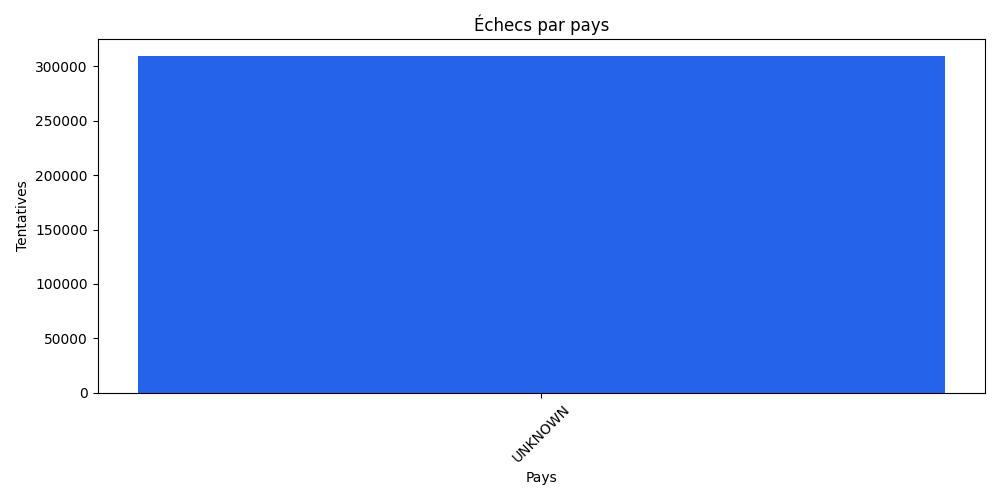
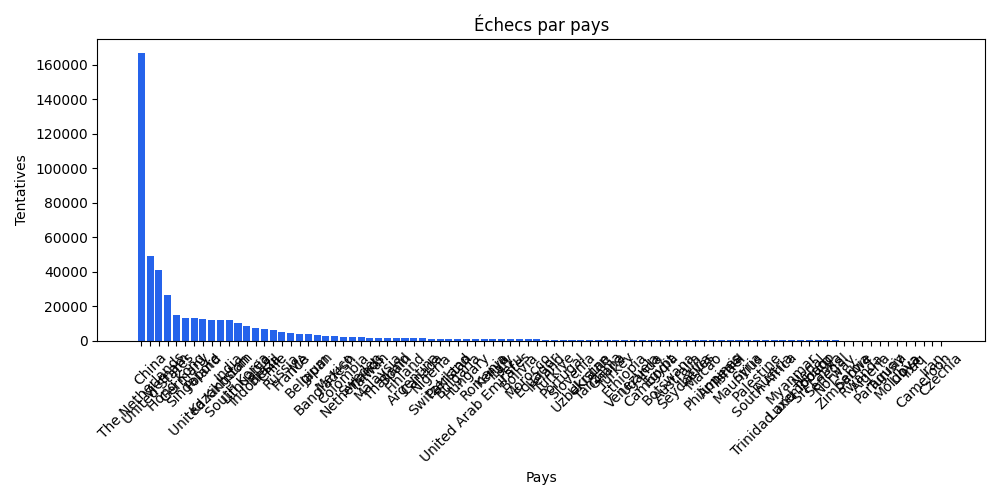
fixing bug

diff --git a/serving/dashboard.py b/serving/dashboard.py
@@ -2,7 +2,6 @@ import logging
 import os
 import subprocess
 from typing import List, Tuple
-from html import escape
 
 import matplotlib.pyplot as plt
 from matplotlib.patches import FancyBboxPatch
@@ -25,25 +24,6 @@ def _query(sql: str) -> List[Tuple[str, int]]:
     ]
 
 
-def create_dashboard(output_dir: str = "dashboard") -> None:
-    os.makedirs(output_dir, exist_ok=True)
-    charts = [
-        ("failed_attempts_by_country", "Tentatives échouées par pays", "Pays", "Tentatives"),
-        ("successful_attempts_by_user", "Tentatives réussies par utilisateur", "Utilisateur", "Tentatives"),
-        ("failed_invalid_users_by_user", "Tentatives avec utilisateur invalide", "Utilisateur", "Tentatives"),
-    ]
-    chart_data = {}
-    for view, title, x_label, y_label in charts:
-        try:
-            data = _query(f"SELECT * FROM {view};")
-            chart_data[view] = data
-            _create_chart(output_dir, view, title, x_label, y_label, data)
-        except (OSError, subprocess.CalledProcessError, ValueError):
-            LOGGER.exception("Cannot create chart for %s", view)
-            raise
-    _write_html(output_dir, chart_data)
-
-
 def _create_chart(
     output_dir: str,
     view: str,
@@ -61,16 +41,6 @@ def _create_chart(
     figure.tight_layout()
     figure.savefig(os.path.join(output_dir, f"{view}.png"))
     plt.close(figure)
-
-
-def _table_rows(data: List[Tuple[str, int]]) -> str:
-    if not data:
-        return '<tr><td colspan="2" class="empty">Aucune donnée</td></tr>'
-    return "".join(
-        f"<tr><td>{escape(label)}</td><td>{value:,}</td></tr>"
-        for label, value in data
-    )
-
 
 
 def launch_dashboard_app() -> None:
@@ -121,18 +91,18 @@ def _show_matplotlib_dashboard(
     figure.suptitle(
         "Log Analyser",
         x=0.06,
-        y=0.96,
+        y=0.975,
         ha="left",
         color="#172033",
-        fontsize=24,
+        fontsize=22,
         fontweight="bold",
     )
     figure.text(
         0.06,
-        0.92,
+        0.925,
         "Surveillance des authentifications SSH",
         color="#667085",
-        fontsize=12,
+        fontsize=10,
         ha="left",
     )
 
@@ -142,7 +112,7 @@ def _show_matplotlib_dashboard(
         zip(values, card_titles, card_colors)
     ):
         left = 0.06 + index * 0.30
-        card = figure.add_axes((left, 0.76, 0.27, 0.10))
+        card = figure.add_axes((left, 0.755, 0.27, 0.105))
         card.set_axis_off()
         card.add_patch(
             FancyBboxPatch(
@@ -158,36 +128,36 @@ def _show_matplotlib_dashboard(
         )
         card.text(
             0.07,
-            0.68,
+            0.72,
             title.upper(),
             color="#667085",
-            fontsize=9,
+            fontsize=8,
             fontweight="bold",
             va="center",
         )
         card.text(
             0.07,
-            0.30,
+            0.28,
             f"{sum(count for _, count in rows):,}",
             color=color,
-            fontsize=22,
+            fontsize=21,
             fontweight="bold",
             va="center",
         )
 
     axes = (
-        figure.add_axes((0.06, 0.13, 0.27, 0.54)),
-        figure.add_axes((0.365, 0.13, 0.27, 0.54)),
-        figure.add_axes((0.67, 0.13, 0.27, 0.54)),
+        figure.add_axes((0.06, 0.17, 0.27, 0.51)),
+        figure.add_axes((0.365, 0.17, 0.27, 0.51)),
+        figure.add_axes((0.67, 0.17, 0.27, 0.51)),
     )
     for axis, (title, rows), color in zip(axes, values, card_colors):
         labels = [label for label, _ in rows[:15]]
         counts = [count for _, count in rows[:15]]
         axis.set_facecolor("white")
         axis.bar(labels, counts, color=color, width=0.72)
-        axis.set_title(title, loc="left", color="#172033", fontsize=13, pad=14)
+        axis.set_title(title, loc="left", color="#172033", fontsize=13, pad=12)
         axis.set_ylabel("Tentatives", color="#667085", fontsize=9)
-        axis.tick_params(axis="x", rotation=45, labelsize=8, colors="#475467")
+        axis.tick_params(axis="x", rotation=35, labelsize=7, colors="#475467")
         axis.tick_params(axis="y", labelsize=8, colors="#475467")
         axis.grid(axis="y", alpha=0.25, color="#98a2b3")
         axis.set_axisbelow(True)
@@ -196,9 +166,9 @@ def _show_matplotlib_dashboard(
         axis.margins(x=0.04)
     figure.text(
         0.06,
-        0.06,
+        0.075,
         "Source : journaux SSH analysés depuis PostgreSQL",
         color="#98a2b3",
-        fontsize=9,
+        fontsize=8,
     )
     plt.show()

diff --git a/process/geolocation.py b/process/geolocation.py
@@ -3,31 +3,14 @@ import io
 import logging
 import os
 import subprocess
-from concurrent.futures import ThreadPoolExecutor, as_completed
-from typing import Dict, Iterable, Optional
+from typing import Dict, Iterable, List
 
 import requests
 
 LOGGER = logging.getLogger(__name__)
-API_URL = "https://ipinfo.io/{ip}/json"
-REQUEST_TIMEOUT = 4
-MAX_WORKERS = 20
-
-
-def get_location(ip: str) -> Optional[str]:
-    """Return the country code reported by ipinfo.io for an IP address."""
-    try:
-        response = requests.get(API_URL.format(ip=ip), timeout=REQUEST_TIMEOUT)
-        response.raise_for_status()
-        country = response.json().get("country")
-    except (OSError, requests.RequestException, ValueError) as exc:
-        LOGGER.warning("Geolocation request failed for %s: %s", ip, exc)
-        return None
-
-    if not isinstance(country, str) or not country:
-        LOGGER.warning("Geolocation API returned no country for %s", ip)
-        return None
-    return country
+API_URL = "http://ip-api.com/batch"
+REQUEST_TIMEOUT = 15
+BATCH_SIZE = 100
 
 
 def _query_ips(database: str) -> Iterable[str]:
@@ -40,10 +23,10 @@ def _query_ips(database: str) -> Iterable[str]:
             "--no-align",
             "--command",
             """
-            SELECT DISTINCT source_ip::text
+            SELECT DISTINCT host(source_ip)
             FROM auth_events
             WHERE source_ip IS NOT NULL
-              AND source_ip::text NOT IN (SELECT source_ip::text FROM ip_country);
+              AND source_ip NOT IN (SELECT source_ip FROM ip_country);
             """,
         ],
         capture_output=True,
@@ -51,6 +34,35 @@ def _query_ips(database: str) -> Iterable[str]:
         check=True,
     )
     return (line.strip() for line in result.stdout.splitlines() if line.strip())
+
+
+def _get_locations(ips: List[str]) -> Dict[str, str]:
+    try:
+        response = requests.post(
+            API_URL,
+            json=[{"query": ip} for ip in ips],
+            params={"fields": "status,message,query,country"},
+            timeout=REQUEST_TIMEOUT,
+        )
+        response.raise_for_status()
+        results = response.json()
+    except (OSError, requests.RequestException, ValueError) as exc:
+        LOGGER.warning("Geolocation batch request failed: %s", exc)
+        return {}
+
+    locations = {}
+    if not isinstance(results, list):
+        LOGGER.warning("Geolocation API returned an invalid batch response")
+        return locations
+    for result in results:
+        if (
+            isinstance(result, dict)
+            and result.get("status") == "success"
+            and isinstance(result.get("query"), str)
+            and isinstance(result.get("country"), str)
+        ):
+            locations[result["query"]] = result["country"]
+    return locations
 
 
 def _save_locations(database: str, locations: Dict[str, str]) -> None:
@@ -74,20 +86,19 @@ def _save_locations(database: str, locations: Dict[str, str]) -> None:
 
 
 def enrich_database() -> None:
-    """Geolocate new source IPs and update the event countries."""
+    """Geolocate new source IPs in batches and update event countries."""
     database = os.environ.get("POSTGRES_DB", "log_analyser")
     locations = {}
     ips = list(_query_ips(database))
     LOGGER.info("Geolocating %d new source IPs", len(ips))
-    with ThreadPoolExecutor(max_workers=MAX_WORKERS) as executor:
-        requests_by_ip = {executor.submit(get_location, ip): ip for ip in ips}
-        for completed, future in enumerate(as_completed(requests_by_ip), start=1):
-            ip = requests_by_ip[future]
-            country = future.result()
-            if country is not None:
-                locations[ip] = country
-            if completed % 100 == 0 or completed == len(ips):
-                LOGGER.info("Geolocation progress: %d/%d", completed, len(ips))
+    for start in range(0, len(ips), BATCH_SIZE):
+        batch = ips[start : start + BATCH_SIZE]
+        locations.update(_get_locations(batch))
+        LOGGER.info(
+            "Geolocation progress: %d/%d IPs",
+            min(start + BATCH_SIZE, len(ips)),
+            len(ips),
+        )
     _save_locations(database, locations)
     subprocess.run(
         [

diff --git a/main.py b/main.py
@@ -6,7 +6,6 @@ from serving.dashboard import launch_dashboard_app
 
 
 def main() -> None:
-    """Load the logs and open the native desktop dashboard."""
     project_dir = os.path.dirname(os.path.abspath(__file__))
     data_dir = os.path.join(project_dir, "data")
     configure_logging()

diff --git a/README.md b/README.md
@@ -1,1 +1,10 @@
-Log Analyser est une application Python qui analyse des logs SSH, détecte les connexions réussies, les échecs de mot de passe et les utilisateurs invalides. Les événements sont stockés dans PostgreSQL, puis affichés dans un dashboard avec des statistiques par pays et par utilisateur.
+=>> Log Analyser
+
+Log Analyser est un  projet  qui étudie des journaux de connexions SSH .
+
+Le pipeline lit les fichiers (auth.log), y compris les archives compressées, puis extrait les événements utiles.
+Les connexions réussies, les mots de passe refusés et les utilisateurs invalides sont enregistrés dans PostgreSQL.
+Les adresses IP sont ensuite associées à leur pays grâce à une API de géolocalisation.
+Les données sont regroupées avec des vues SQL pour obtenir les statistiques par pays et par utilisateur.
+Enfin, une dashboard Matplotlib présente les résultats sous forme de graphiques simples.
+Le projet utilise principalement Python, (requests) pour l'API, (psql) pour PostgreSQL et (matplotlib) pour l'affichage.
